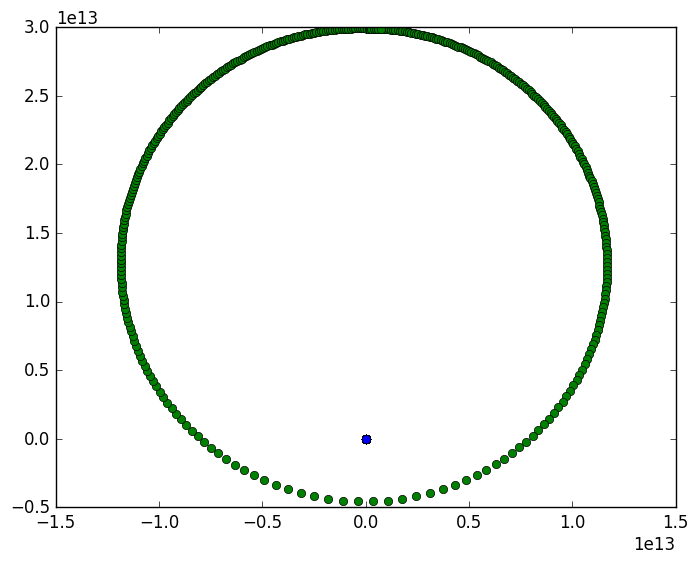
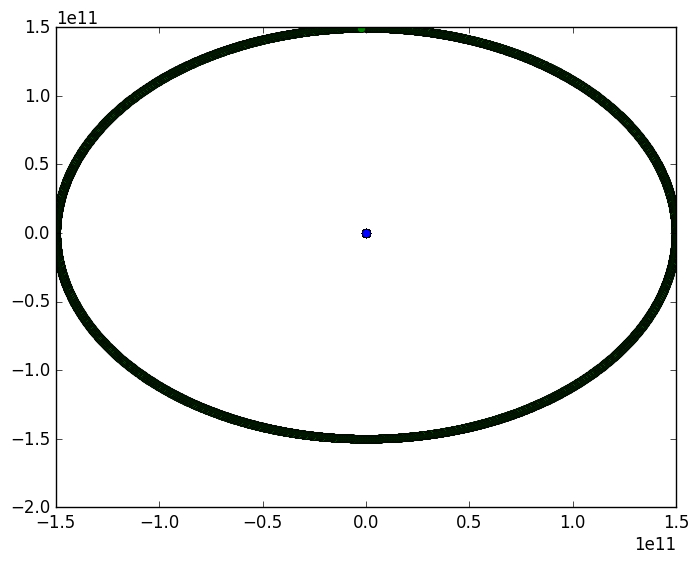
Update :+1:

diff --git a/Verlet_Plot.py b/Verlet_Plot.py
@@ -18,7 +18,7 @@ ax = fig.add_subplot(111, projection='3d')
 plt.plot(A[:,0],A[:,1],A[:,2],'o'); plt.plot(B[:,0],B[:,1],B[:,2]) #; plt.plot(C[:,0],C[:,1],C[:,2])
 
 plt.figure()
-plt.plot(T, Ea/Esum, color = 'blue'), plt.plot(T, Eb/Esum, color = 'red'); plt.plot(T, ((Ea/Esum)+(Eb/Esum)), color = 'black') #; plt.plot(T, Ec/Esum, color = 'green')
+plt.plot(T, Ea, color = 'blue'), plt.plot(T, Eb, color = 'red'); plt.plot(T, (Ea+Eb), color = 'black') #; plt.plot(T, Ec/Esum, color = 'green')
 
 fig = plt.figure()
 plt.plot(A[:,0],A[:,1], 'o'); plt.plot(B[:,0],B[:,1], 'o') #; plt.plot(C[:,0],C[:,1])

diff --git a/Verlet_IC_EMS.py b/Verlet_IC_EMS.py
@@ -13,22 +13,22 @@ Me = 5.972e24
 Mm = 7.342e22
 
 "Defining Variables"
-N = 3
+N = 2
 t_max = 3.1556e7; t = 0
 dt_max = t_max/5000
 
 v =  (2*np.pi*AU)/t_max
 m = 384399000; vm = v + 1022
 
-mass = np.array([Ms,Me,Mm])
+mass = np.array([Ms,Me])
 
 pos = np.zeros((N,3))
 vel = np.zeros((N,3))
 
 pos[1] = np.array([0,AU,0])
-pos[2] = np.array([0,AU + m,0])
+#pos[2] = np.array([0,AU + m,0])
 vel[1] = np.array([v,0,0])
-vel[2] = np.array([vm,0,0])
+#vel[2] = np.array([vm,0,0])
 
 e = 0.0005*AU; n = 0.1
 
@@ -38,4 +38,4 @@ c = []; Tc = []
 
 Tsum = []
 
-T = [] 
+T = []; dT = []

diff --git a/Verlet_main.py b/Verlet_main.py
@@ -8,7 +8,7 @@ from __future__ import division
 import numpy as np 
 from numpy import linalg as LA
 
-from Verlet_IC_Ecc import *
+from Verlet_IC_EMS import *
 
 #####################
 
@@ -24,7 +24,6 @@ def Verv(pos, mass, ovel, dt, a, e):
      return vel
 
 def acc(pos, mass, vel, e):
-    
     a = np.zeros((N,3))
     pe = np.zeros((N,1))
     
